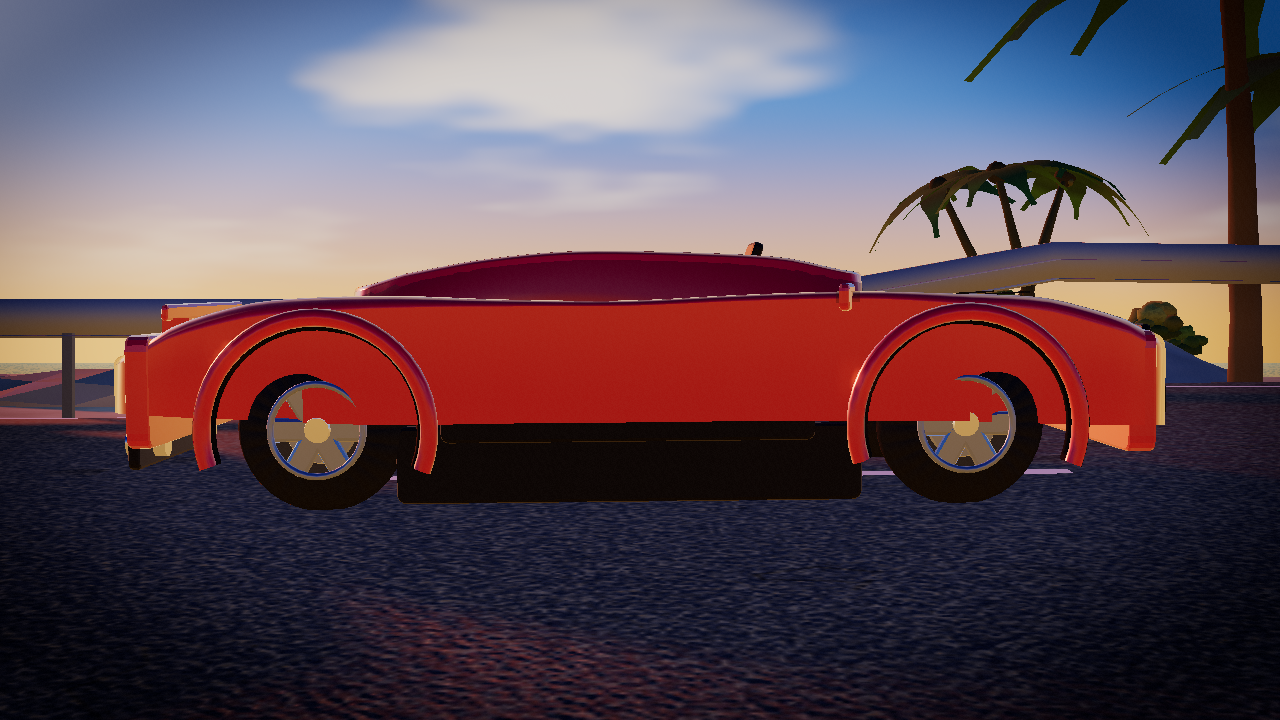
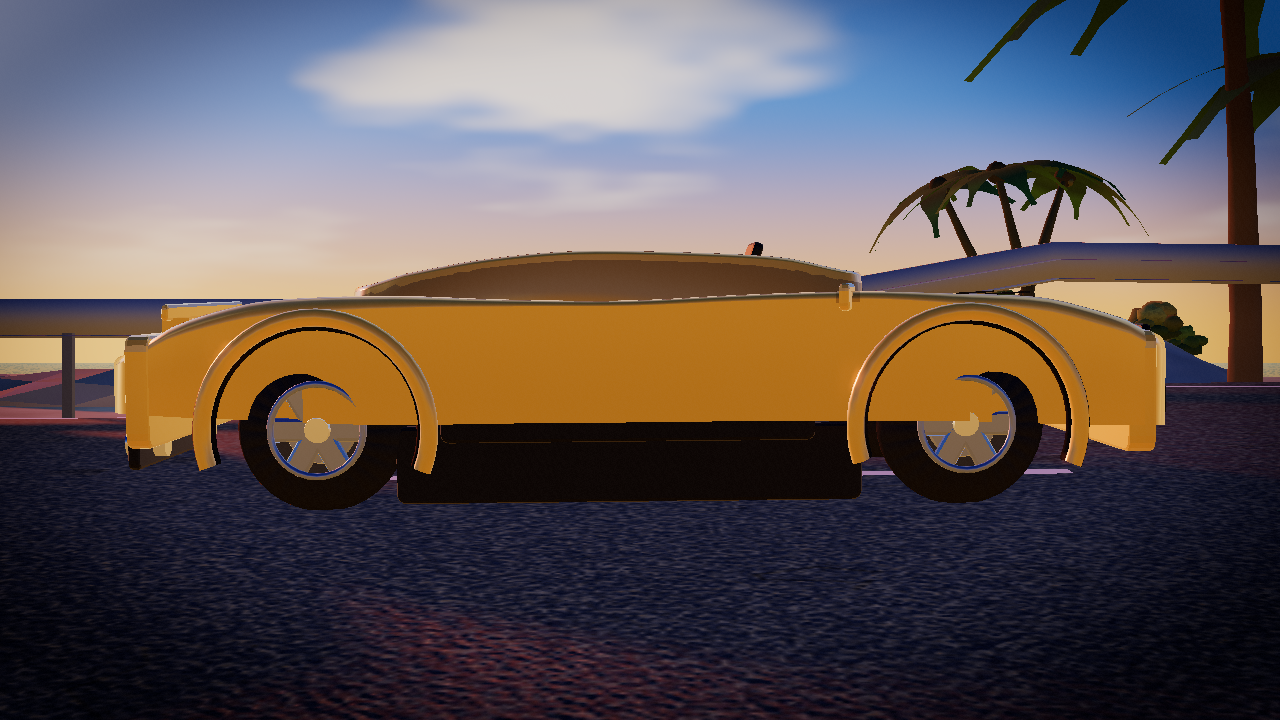
feat: per-model signature finishes with paint precedence flow
Data + flow only: per-model CarFinish records (palette-pinned signature paints),
vr.paint persistence with resolvePaint precedence (an explicit swatch pick beats the model
signature; model selection never writes the key), optional buildCar paint hex, swatch-row
marker sync. Material rendering of the finish numbers lands in the next commit.

Changed region(s): [[0.0938, 0.3361, 0.9062, 0.6722]]

diff --git a/src/vehicles/CarSpecs.ts b/src/vehicles/CarSpecs.ts
@@ -1,4 +1,5 @@
 import { globalObject } from '../core/globals'
+import { PAINTS } from '../config'
 import type { CarStat } from './CarTuning'
 
 /* ------------------------------------------------------------------------- *
@@ -28,6 +29,21 @@ export interface CarKit {
   glassTint: number
 }
 
+/* Each model's signature paint look (visual-enhancement group 1): colour data
+ * only — the material layer that consumes these values lands in group 2.
+ * paint/glassTint/accent are hex colours, clearcoat/flake/roughness are 0..1,
+ * carbon is the weave-darkness scalar (0..1, lower = darker weave) so later
+ * groups can shade plain geometry with it. */
+export interface CarFinish {
+  paint: number
+  clearcoat: number
+  flake: number
+  roughness: number
+  glassTint: number
+  carbon: number
+  accent: number
+}
+
 export interface CarSpec {
   id: CarId
   name: string
@@ -35,6 +51,7 @@ export interface CarSpec {
   stat: CarStat
   shape: CarShape
   kit: CarKit
+  finish: CarFinish
 }
 
 /* Hero silhouette, verbatim from the shipped car (car-models spec §5). The
@@ -73,10 +90,25 @@ const BASE_KIT: CarKit = {
   trackMul: 1, archExtension: 0, caliper: 0xc23a28, glassTint: 0,
 }
 
+/* Hero finish mirrors the shipped CarModel.ts constants verbatim so the
+ * never-touch path renders byte-identical until the material group arrives:
+ * roughness 0.28 (CarModel paint factory), glass 0x151c25 (shared.glass),
+ * near-black weave 0x14161a ≈ 0.1 (shared.dark), caliper 0xc23a28 (BASE_KIT). */
+const HERO_FINISH: CarFinish = {
+  paint: PAINTS[1].color,
+  clearcoat: 0.55,
+  flake: 0.5,
+  roughness: 0.28,
+  glassTint: 0x151c25,
+  carbon: 0.1,
+  accent: BASE_KIT.caliper,
+}
+
 export const HERO_SPEC: CarSpec = {
   id: 'hero', name: 'Velocity GT', class: 'BALANCED', stat: {},
   shape: { bodyStations: BODY_STATIONS, cabinStations: CABIN_STATIONS },
   kit: { ...BASE_KIT },
+  finish: { ...HERO_FINISH },
 }
 
 /* Solaris Hyper — 0.18 m longer, crown 0.06 lower, sharper nose stations. */
@@ -152,17 +184,25 @@ const DRIFT_SHAPE: CarShape = {
   cabinStations: CABIN_STATIONS.slice(),
 }
 
+/* Signature finishes — palette members only (the picker can never disagree
+ * with the car): hyper rides Velocity Blue as the coolest pearl-leaning entry,
+ * glossier + denser flake than hero; grip is Night Shift satin graphite with a
+ * carbon-forward (darkest) weave and a yellow caliper-pop accent; drift wears
+ * Plasma Gold at flake-max/roughness-min so it reads metallic, warm glass. */
 export const CAR_SPECS: readonly CarSpec[] = [
   HERO_SPEC,
   { id: 'hyper', name: 'Solaris Hyper', class: 'TOP SPEED',
     stat: { topSpeed: 1.12, nitroTopSpeed: 1.10, engineAccel: 1.02, gripMax: 0.90, gripDrift: 1.05, drag: 0.92 },
-    shape: HYPER_SHAPE, kit: { ...BASE_KIT, spoiler: 'gt', wheelStyle: 'mesh', wheelRadiusMul: 0.98, wheelWidthMul: 1.06, caliper: 0xe8b62e, glassTint: 0.06 } },
+    shape: HYPER_SHAPE, kit: { ...BASE_KIT, spoiler: 'gt', wheelStyle: 'mesh', wheelRadiusMul: 0.98, wheelWidthMul: 1.06, caliper: 0xe8b62e, glassTint: 0.06 },
+    finish: { paint: PAINTS[4].color, clearcoat: 0.9, flake: 0.75, roughness: 0.18, glassTint: 0x101a2a, carbon: 0.08, accent: 0x18d8e8 } },
   { id: 'grip', name: 'Apex Grip', class: 'CORNER GRIP',
     stat: { topSpeed: 0.90, nitroTopSpeed: 0.90, gripMax: 1.12, gripDrift: 1.10, yawResponse: 1.08, brakeForce: 1.08 },
-    shape: GRIP_SHAPE, kit: { ...BASE_KIT, splitter: 'big', spoiler: 'none', wheelStyle: 'multi-spoke', wheelRadiusMul: 1.04, trackMul: 1.05, archExtension: 0.05, caliper: 0x39c06a } },
+    shape: GRIP_SHAPE, kit: { ...BASE_KIT, splitter: 'big', spoiler: 'none', wheelStyle: 'multi-spoke', wheelRadiusMul: 1.04, trackMul: 1.05, archExtension: 0.05, caliper: 0x39c06a },
+    finish: { paint: PAINTS[2].color, clearcoat: 0.2, flake: 0.25, roughness: 0.55, glassTint: 0x151c25, carbon: 0.04, accent: 0xf2d21c } },
   { id: 'drift', name: 'Slide King', class: 'DRIFT',
     stat: { topSpeed: 0.96, nitroTopSpeed: 0.96, gripMax: 0.94, gripDrift: 0.88, driftYawBoost: 1.30, yawResponse: 1.20 },
-    shape: DRIFT_SHAPE, kit: { ...BASE_KIT, splitter: 'none', spoiler: 'low', diffuserFins: 0, roofScoop: true, wheelStyle: 'teardrop', wheelWidthMul: 1.08, trackMul: 1.07, archExtension: 0.07, caliper: 0xf27a1e, glassTint: 0.04 } },
+    shape: DRIFT_SHAPE, kit: { ...BASE_KIT, splitter: 'none', spoiler: 'low', diffuserFins: 0, roofScoop: true, wheelStyle: 'teardrop', wheelWidthMul: 1.08, trackMul: 1.07, archExtension: 0.07, caliper: 0xf27a1e, glassTint: 0.04 },
+    finish: { paint: PAINTS[5].color, clearcoat: 0.7, flake: 0.85, roughness: 0.15, glassTint: 0x241a10, carbon: 0.12, accent: 0xf29a1e } },
 ]
 
 export function getSpec(id: string): CarSpec {
@@ -187,5 +227,31 @@ export function writeModelSelection(id: CarId): void {
   try {
     const store = (globalObject().localStorage as Storage | undefined) ?? undefined
     store?.setItem(MODEL_KEY, id)
+  } catch { /* private mode */ }
+}
+
+/* Paint precedence (garage contract): an explicit swatch pick always wins; with
+ * none stored the car wears its model's signature finish. Stored at boot, then
+ * on every click of a swatch — model selection alone NEVER writes this key. */
+export function resolvePaint(storedHex: number | null, spec: CarSpec): number {
+  return storedHex ?? spec.finish.paint
+}
+
+const PAINT_KEY = 'vr.paint'
+
+export function readPaintSelection(): number | null {
+  try {
+    const store = (globalObject().localStorage as Storage | undefined) ?? undefined
+    const v = store?.getItem(PAINT_KEY)
+    if (v === null || v === undefined) return null
+    const n = Number(v)
+    return Number.isFinite(n) ? n : null
+  } catch { return null }
+}
+
+export function writePaintSelection(hex: number): void {
+  try {
+    const store = (globalObject().localStorage as Storage | undefined) ?? undefined
+    store?.setItem(PAINT_KEY, String(hex))
   } catch { /* private mode */ }
 }

diff --git a/tests/cases/cars.test.ts b/tests/cases/cars.test.ts
@@ -1,8 +1,8 @@
 import { assert, assertNear, test } from '../harness'
-import { VEHICLE, CAR } from '../../src/config'
+import { VEHICLE, CAR, PAINTS } from '../../src/config'
 import { AIVehicle } from '../../src/vehicles/AIVehicle'
 import { BASE_TUNING, resolveTuning, type CarStat } from '../../src/vehicles/CarTuning'
-import { CAR_SPECS, HERO_SPEC, getSpec, spokeCountForStyle, readModelSelection, type CarKit } from '../../src/vehicles/CarSpecs'
+import { CAR_SPECS, HERO_SPEC, getSpec, spokeCountForStyle, readModelSelection, readPaintSelection, resolvePaint, type CarKit } from '../../src/vehicles/CarSpecs'
 import { validateCarShape } from '../../src/assets/CarModel'
 import { VehiclePhysics } from '../../src/vehicles/VehiclePhysics'
 import { FlatProbe, rig } from '../rig'
@@ -109,6 +109,64 @@ test('catalog: headless localStorage guard returns hero', () => {
   assert(readModelSelection() === 'hero', 'no storage in node — fallback, no throw')
 })
 
+/* ------------------------------------------------------- per-model finishes */
+
+const FINISH_FIELDS = ['paint', 'clearcoat', 'flake', 'roughness', 'glassTint', 'carbon', 'accent'] as const
+const FINISH_RANGES = ['clearcoat', 'flake', 'roughness', 'carbon'] as const
+
+test('finishes: every spec ships a complete, finite, in-range finish record', () => {
+  for (const s of CAR_SPECS) {
+    for (const k of FINISH_FIELDS) {
+      assert(Number.isFinite(s.finish[k]), `${s.id}.${k} must be a finite number`)
+    }
+    for (const k of FINISH_RANGES) {
+      assert(s.finish[k] >= 0 && s.finish[k] <= 1, `${s.id}.${k} must sit in [0,1] — got ${s.finish[k]}`)
+    }
+  }
+})
+
+test('finishes: hero paint is byte-pinned to the shipped default PAINTS[1].color', () => {
+  assert(HERO_SPEC.finish.paint === PAINTS[1].color,
+    `hero paint ${HERO_SPEC.finish.paint.toString(16)} !== ${PAINTS[1].color.toString(16)} (never-touch path)`)
+})
+
+test('finishes: the four signature paints are pairwise distinct', () => {
+  const sigs = CAR_SPECS.map((s) => s.finish.paint)
+  assert(new Set(sigs).size === CAR_SPECS.length,
+    `signatures must differ — got ${sigs.map((v) => v.toString(16)).join(', ')}`)
+})
+
+test('finishes: every signature is a member of the PAINTS palette', () => {
+  const palette = new Set(PAINTS.map((p) => p.color))
+  for (const s of CAR_SPECS) assert(palette.has(s.finish.paint), `${s.id} paint ${s.finish.paint.toString(16)} is off-palette`)
+})
+
+/* -------------------------------------------------------- paint precedence */
+
+test('paint flow: an absent pick resolves to the model signature', () => {
+  for (const s of CAR_SPECS) assert(resolvePaint(null, s) === s.finish.paint, `${s.id} falls through to the signature`)
+})
+
+test('paint flow: a stored swatch beats the signature across a model switch', () => {
+  const stored = PAINTS[3].color
+  const grip = getSpec('grip')
+  const hyper = getSpec('hyper')
+  assert(resolvePaint(stored, grip) === stored, 'stored survives the grip rebuild')
+  assert(resolvePaint(stored, hyper) === stored, 'stored survives switching to hyper')
+  assert(resolvePaint(stored, grip) !== grip.finish.paint, 'and demonstrably overrides the signature')
+})
+
+test('paint flow: resolvePaint is pure — deterministic, storage-free, side-effect-free', () => {
+  const spec = getSpec('drift')
+  assert(resolvePaint(null, spec) === resolvePaint(null, spec), 'same inputs, same output')
+  assert(resolvePaint(0x123456, spec) === 0x123456, 'echoes the stored hex untouched')
+  assert(resolvePaint(null, spec) === spec.finish.paint, 'never mutates the spec')
+})
+
+test('paint flow: headless localStorage guard yields null (no pick)', () => {
+  assert(readPaintSelection() === null, 'no storage in node — null, no throw')
+})
+
 import { CAR_SPECS as CS } from '../../src/vehicles/CarSpecs'
 
 const stationFingerprint = (s: (typeof CS)[number]): string => {
@@ -129,11 +187,15 @@ test('shapes: hyper is longer+lower, grip more compact, drift wider', () => {
   assert(L('drift').maxHw > hero.maxHw + 0.02, 'drift is wider')
 })
 
-test('builder: buildCar exposes the spec-driven signature', async () => {
+test('builder: buildCar exposes the optional-paint signature resolved via the spec', async () => {
   const m = await import('../../src/assets/CarModel').catch(() => null)
   // node has no canvas, so buildCar itself runs only under the harness; the
-  // node contract is the export shape plus the validated shapes gate:
-  assert(typeof m?.buildCar === 'function' && m.buildCar.length >= 1, 'spec parameter present')
+  // node contract is the export shape plus the pure resolve wiring it leans on
+  // (a no-arg buildCar can only be observed in-browser — this is the honest pin):
+  assert(typeof m?.buildCar === 'function', 'builder export present')
+  assert(m.buildCar.length === 0, 'paintHex is defaulted, so the arity pin is 0 — callers passing a hex still work')
+  assert(typeof resolvePaint === 'function' && resolvePaint(null, HERO_SPEC) === HERO_SPEC.finish.paint,
+    'the module resolve helper is exported and pure — it is what a no-arg buildCar would use')
 })
 
 test('kit: the hero kit reproduces the shipped part set exactly', () => {

diff --git a/src/game/Game.ts b/src/game/Game.ts
@@ -16,7 +16,7 @@ import { isShortcutLane, RoadSurfaceProbe } from '../vehicles/TrackProbe'
 import { VehicleVisual, bindAIFieldVisuals } from '../vehicles/Vehicle'
 import { PlayerVehicle } from '../vehicles/PlayerVehicle'
 import { BASE_TUNING, resolveTuning } from '../vehicles/CarTuning'
-import { getSpec, type CarId, type CarSpec } from '../vehicles/CarSpecs'
+import { getSpec, readPaintSelection, resolvePaint, writePaintSelection, type CarId, type CarSpec } from '../vehicles/CarSpecs'
 import { AIVehicle, stepAIField, type AIContext, type RivalView } from '../vehicles/AIVehicle'
 import { RaceDirector, gridSlot, type Competitor } from './RaceDirector'
 import type { Obstacle } from '../vehicles/VehiclePhysics'
@@ -116,6 +116,10 @@ export class Game {
     this.input.onAction = (a) => this.onInputAction(a)
     /* the AI field: distinct paints, per-car model + visual + brain, one
        shared probe/spline (world queries are never duplicated per car) */
+    // the player's colour is excluded from the AI pool; with PAINTS at 6 and
+    // AI.count at 5 the slice always yields 5 distinct entries whatever the
+    // player (or the model signature) picked, so the modulo below only ever
+    // wraps if someone shrinks PAINTS without retuning AI.count
     const playerPaint = PAINTS.find((pt) => pt.color === paintHex)
     const aiPaints: PaintDef[] = PAINTS.filter((pt) => pt !== playerPaint).slice(0, AI.count)
     for (let i = 0; i < AI.count; i++) {
@@ -146,11 +150,13 @@ export class Game {
       onRestart: () => this.beginRace(),
       onResume: () => this.setPaused(false),
       onMenu: () => this.toMenu(),
-      onPaint: (hex) => { this.paintHex = hex; this.car.setPaint(hex) },
+      onPaint: (hex) => { this.paintHex = hex; this.car.setPaint(hex); writePaintSelection(hex) },
       onModel: (id) => this.selectModel(id),
     })
     this.ui.setStandingNames(['YOU', ...this.ai.map((a) => a.spec.name.toUpperCase())])
     this.ui.bindTrack(this.slice.spline)
+    // the boot-resolved paint (stored pick or model signature) owns the swatch row
+    this.ui.setPaintActive(this.paintHex)
     this.captureRearWheels()
     for (let i = 0; i < AI.count; i++) this.mapAi.push({ x: 0, z: 0 })
   }
@@ -179,6 +185,10 @@ export class Game {
       if (m.isMesh) { m.geometry.dispose(); (m.material as THREE.Material).dispose() }
     })
     this.selectedSpec = spec
+    // the paint survives a model switch only if the player explicitly picked a
+    // swatch (vr.paint is click-written only); otherwise the new signature wins
+    this.paintHex = resolvePaint(readPaintSelection(), spec)
+    this.ui.setPaintActive(this.paintHex)
     this.car = buildCar(this.paintHex, spec)
     this.car.group.name = 'player-car'
     this.view.scene.add(this.car.group)

diff --git a/src/assets/CarModel.ts b/src/assets/CarModel.ts
@@ -3,7 +3,7 @@ import { VEHICLE } from '../config'
 import { clamp01 } from '../util'
 import { mergeStaticMeshes } from '../world/StaticBatch'
 import { alloyRoughness, carPaintMaps, roundedPlateGeo, tireTreadNormal } from './Textures'
-import { HERO_SPEC, spokeCountForStyle, type CarSpec, type CarShape } from '../vehicles/CarSpecs'
+import { HERO_SPEC, resolvePaint, spokeCountForStyle, type CarSpec, type CarShape } from '../vehicles/CarSpecs'
 
 /* ------------------------------------------------------------------------- *
  * Velocity Rush hero-car kit (spec rev.3 §4.1 / §6).
@@ -439,13 +439,17 @@ function diffuserFinXs(count: number): number[] {
   return Array.from({ length: count }, (_, f) => count === 1 ? 0 : -0.4 + (f / (count - 1)) * 0.8)
 }
 
-export function buildCar(paintHex: number, spec: CarSpec = HERO_SPEC): CarModel {
+/* An omitted hex resolves through the same pure precedence rule the UI uses
+ * (null → the spec's signature finish), so poses/dev callers can pass one and
+ * spec-only callers get the model's signature without hardcoding a colour. */
+export function buildCar(paintHex: number | undefined = undefined, spec: CarSpec = HERO_SPEC): CarModel {
+  const bodyHex = paintHex ?? resolvePaint(null, spec)
   const group = new THREE.Group()
   const paintMats: THREE.MeshPhysicalMaterial[] = []
   const mkPaint = (): THREE.MeshPhysicalMaterial => {
     const maps = carPaintMaps(7)
     const m = new THREE.MeshPhysicalMaterial({
-      color: paintHex, metalness: 0.15, roughness: 0.28,
+      color: bodyHex, metalness: 0.15, roughness: 0.28,
       roughnessMap: maps.roughnessMap, normalMap: maps.normalMap,
       normalScale: new THREE.Vector2(0.5, 0.5),
       clearcoat: 1, clearcoatRoughness: 0.045, sheen: 0.2, sheenRoughness: 0.4,

diff --git a/src/ui/UIManager.ts b/src/ui/UIManager.ts
@@ -402,6 +402,7 @@ export class UIManager {
       b.className = 'swatch' + (p.color === selectedHex ? ' selected' : '')
       b.style.background = hexToCss(p.color)
       b.title = p.name
+      b.dataset.paint = String(p.color)
       b.addEventListener('click', () => {
         for (const s of Array.from(this.swatchHost?.children ?? [])) s.classList.remove('selected')
         b.classList.add('selected')
@@ -409,6 +410,18 @@ export class UIManager {
       })
       this.swatchHost.appendChild(b)
     }
+  }
+
+  /** moves the selected marker to the swatch matching the effective paint — the
+   *  resolved colour is always a PAINTS member, so a miss is a no-op (dev-warned) */
+  setPaintActive(hex: number): void {
+    let hit = false
+    for (const s of Array.from(this.swatchHost?.children ?? [])) {
+      const on = s instanceof HTMLElement && s.dataset.paint === String(hex)
+      s.classList.toggle('selected', on)
+      if (on) hit = true
+    }
+    if (!hit && __VR_HARNESS__) console.warn(`[ui] setPaintActive(${hex.toString(16)}) matches no swatch`)
   }
 
   /** garage model cards (car-models spec §8 title screen) */

diff --git a/src/main.ts b/src/main.ts
@@ -1,5 +1,4 @@
-import { PAINTS } from './config'
-import { readModelSelection } from './vehicles/CarSpecs'
+import { getSpec, readModelSelection, readPaintSelection, resolvePaint } from './vehicles/CarSpecs'
 import { setStaticMergeEnabled } from './world/StaticMerge'
 import { Game } from './game/Game'
 
@@ -46,7 +45,8 @@ function boot(): void {
      bundle with the rest of the dev harness. */
   if (__VR_HARNESS__ && new URLSearchParams(location.search).has('nomerge')) setStaticMergeEnabled(false)
   const t0 = performance.now()
-  const game = new Game(canvas, PAINTS[1].color, readModelSelection())
+  const modelId = readModelSelection()
+  const game = new Game(canvas, resolvePaint(readPaintSelection(), getSpec(modelId)), modelId)
   const buildMs = Math.round(performance.now() - t0)
   /* the WebAudio context may only exist past a user gesture (spec §15) —
      the first real press unlocks it; everything before is a silent no-op */
